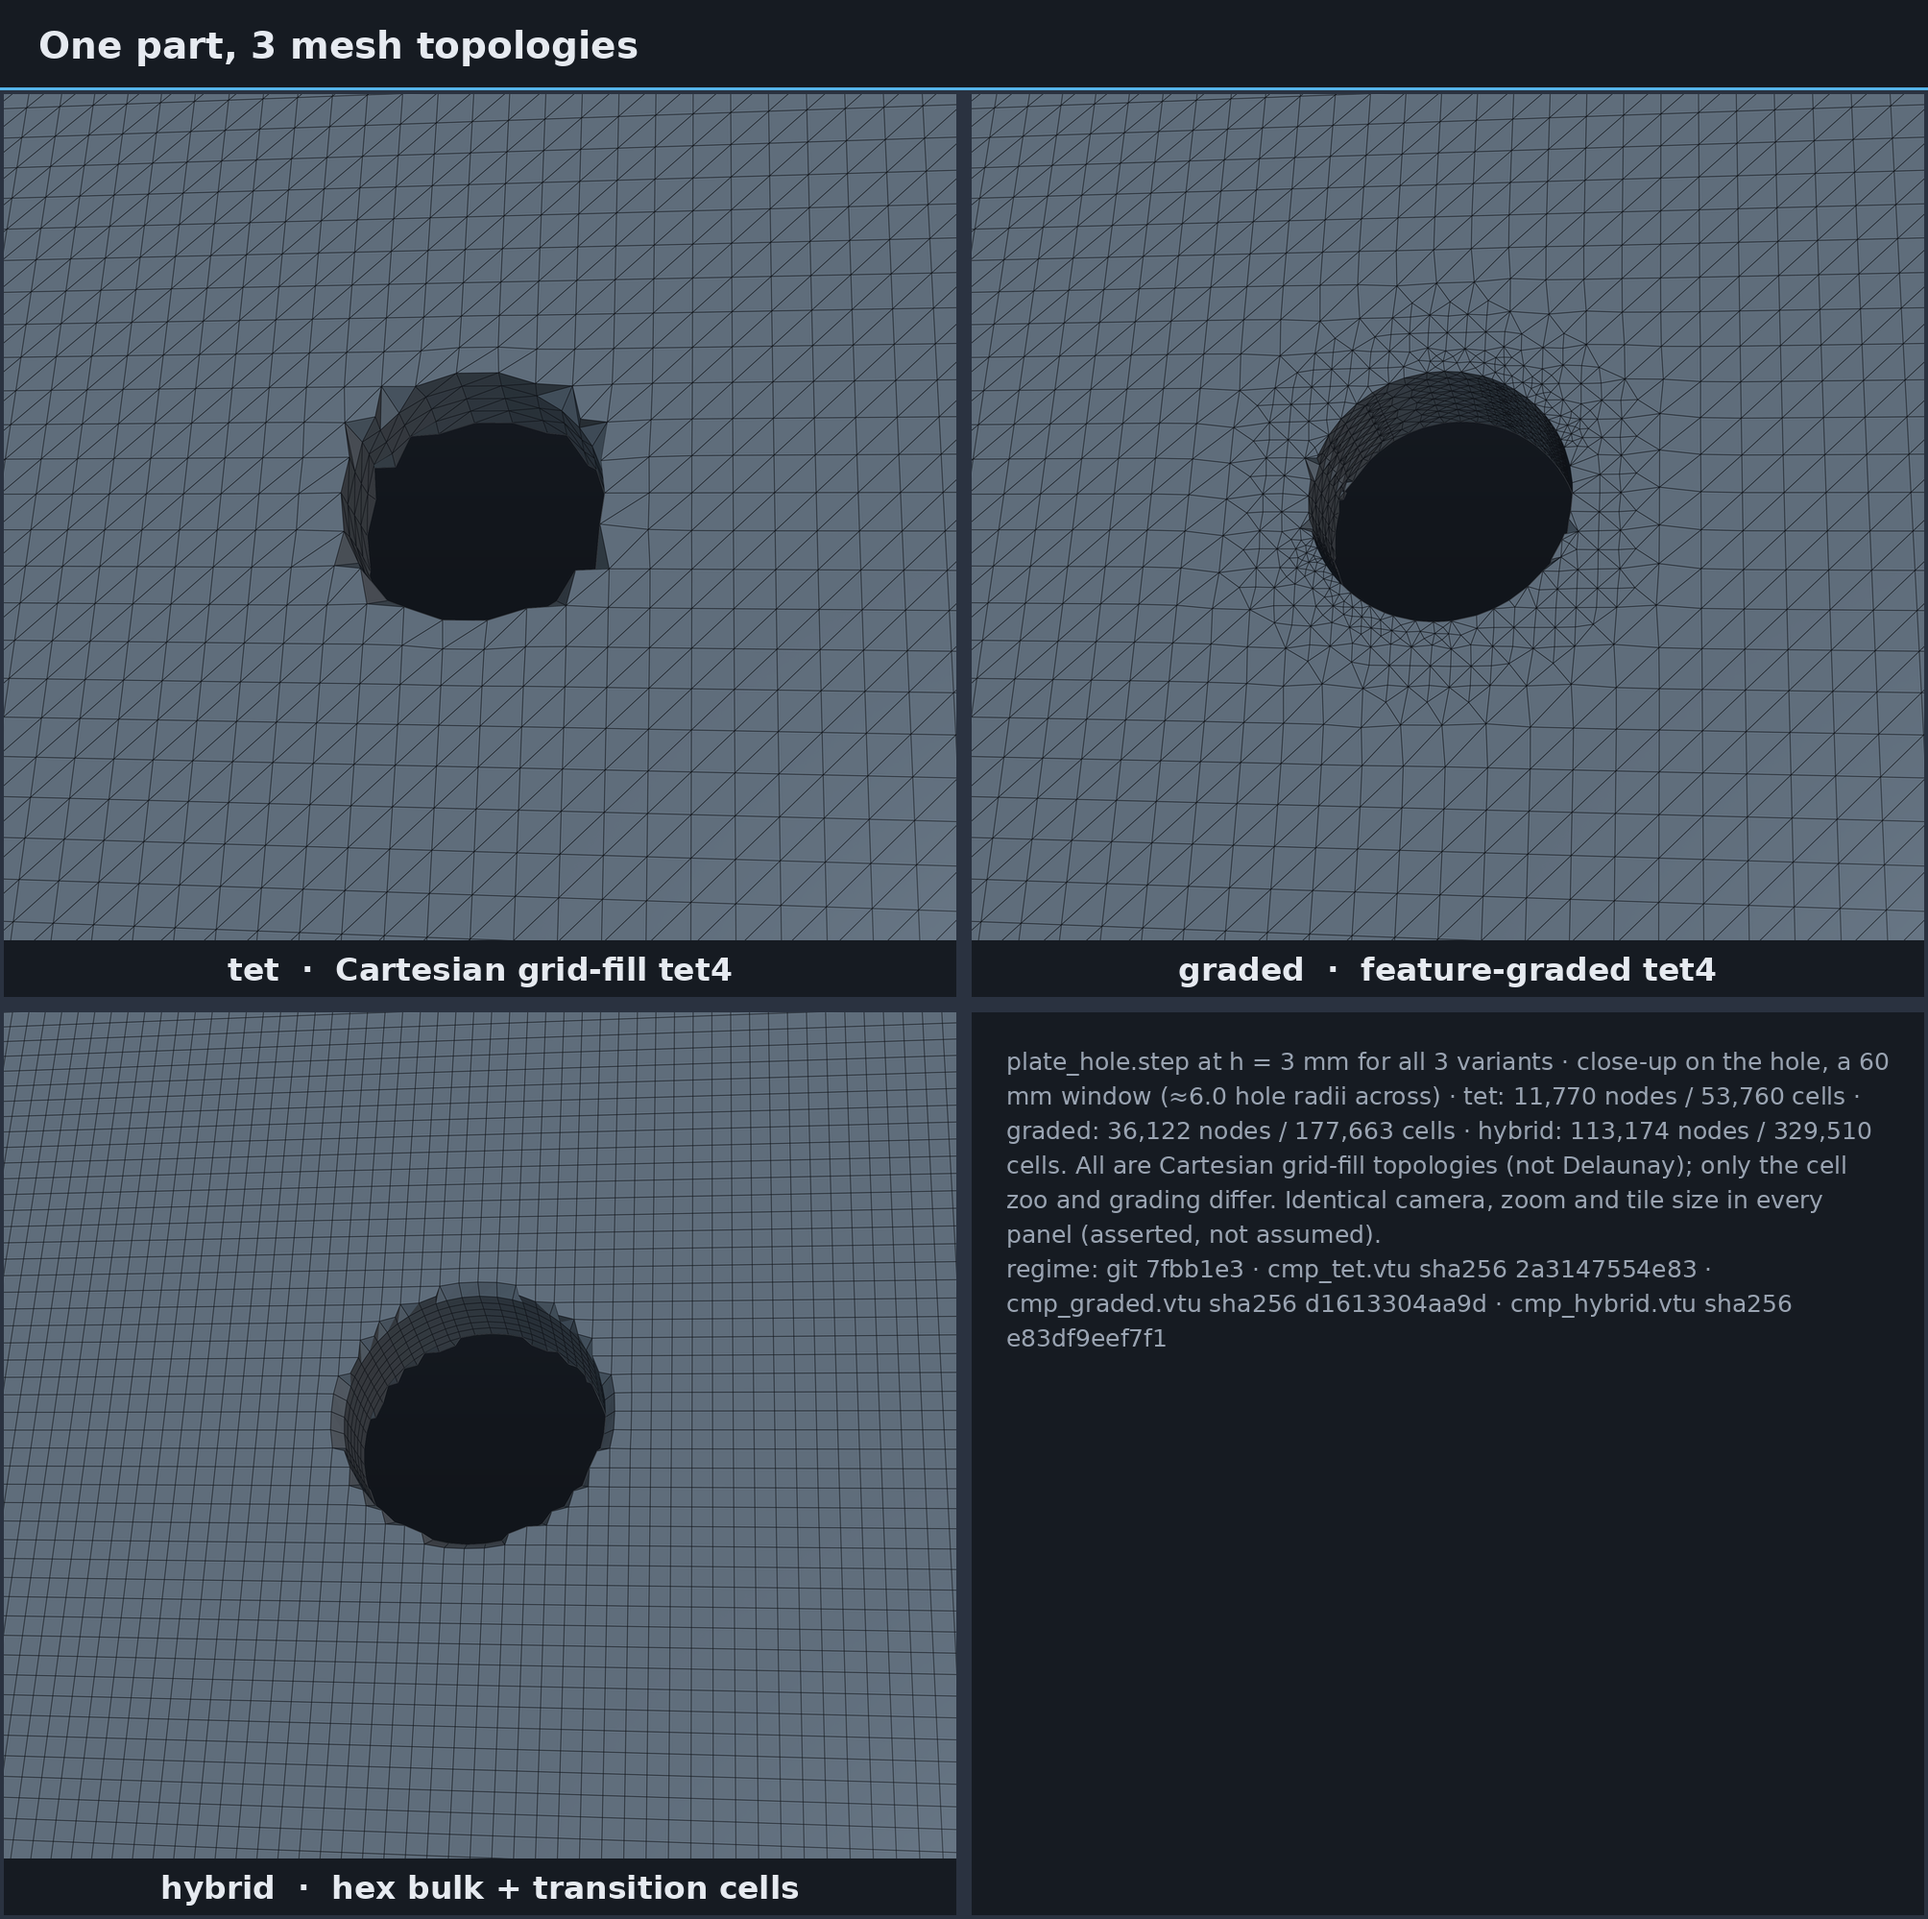
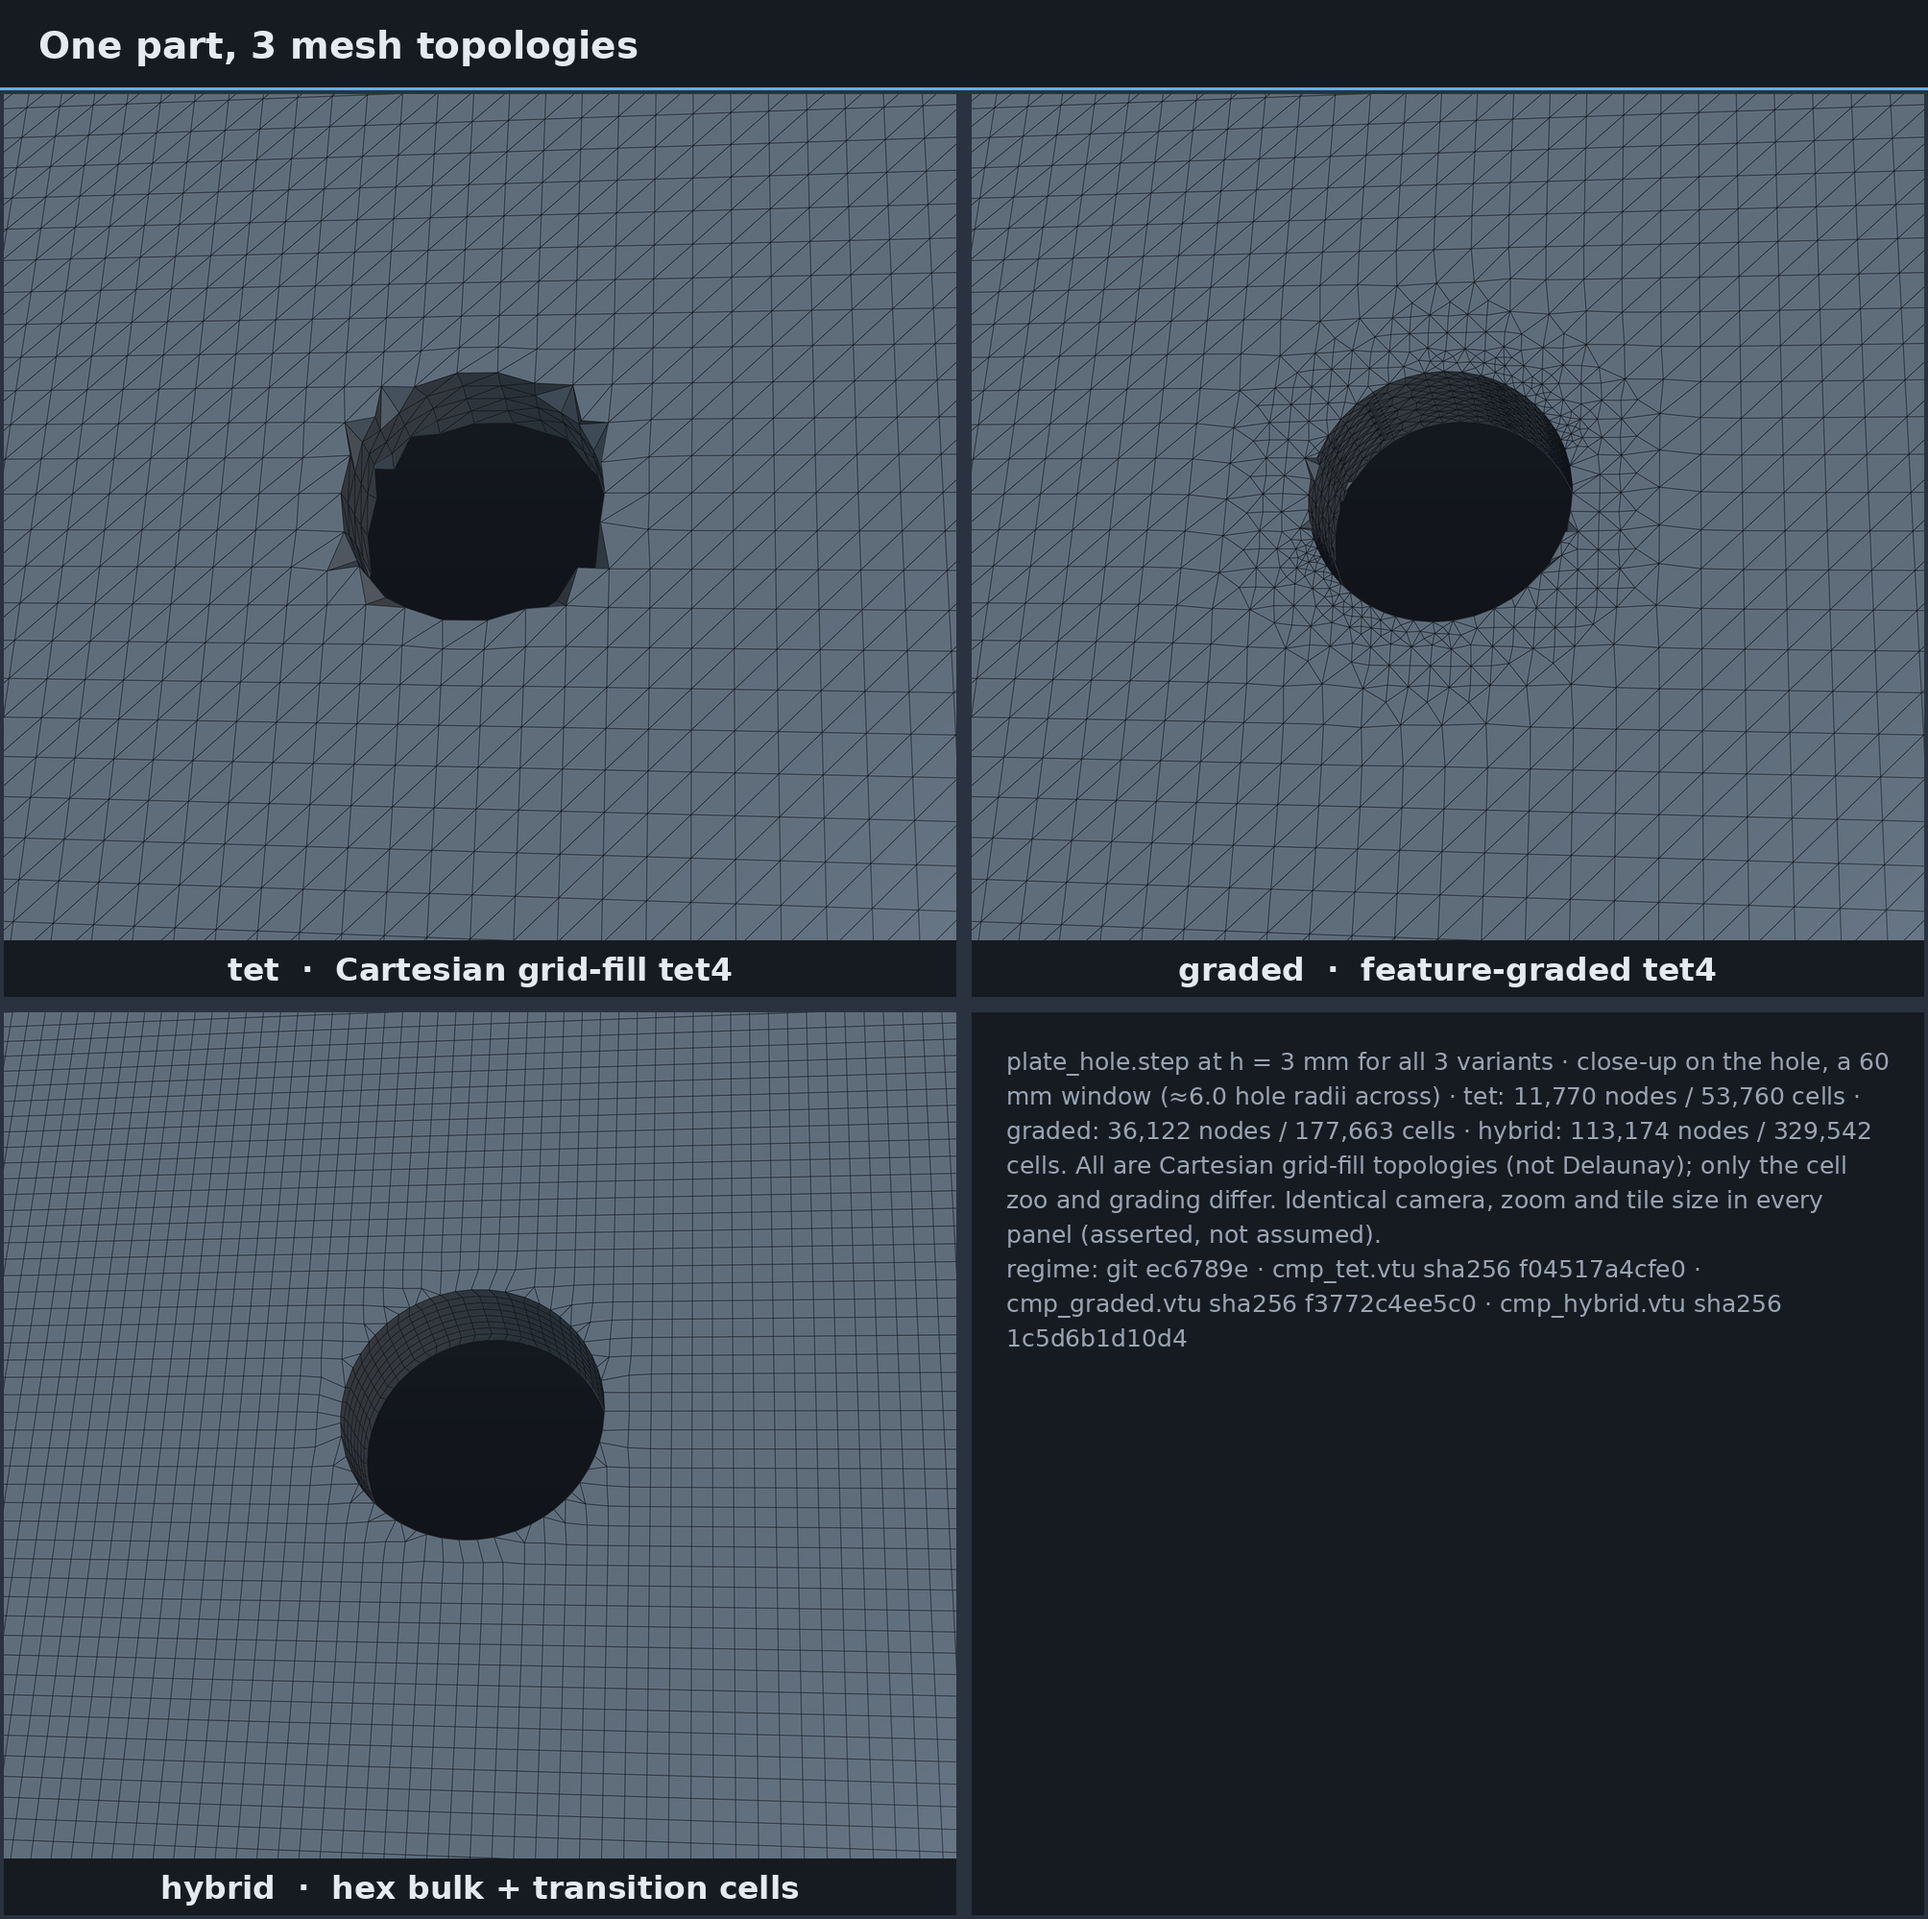
Refresh curved boundary showcase evidence

diff --git a/docs/SHOWCASE.md b/docs/SHOWCASE.md
@@ -77,8 +77,9 @@ python scripts/render_showcase.py --only cantilever
 ![cylinder](assets/showcase/gallery_cylinder.png)
 
 Curved-wall solid imported from STEP. Curvature-driven sizing refines the
-cylindrical face while the bulk stays coarse. h = 12 mm, 8,840 nodes / 42,517
-elements, 26,520 DOF.
+cylindrical face while the bulk stays coarse; the exported display skin uses
+projected quadratic mids while the solve stays linear. h = 12 mm, 8,908 nodes /
+42,768 elements, 26,724 solved DOF.
 
 ```sh
 python scripts/render_showcase.py --only cylinder
@@ -88,10 +89,10 @@ python scripts/render_showcase.py --only cylinder
 
 ![sphere](assets/showcase/gallery_sphere.png)
 
-Closed curved B-rep — the hardest case for a Cartesian grid fill. Shows the
-stair-cased boundary honestly, with the feature-graded skin layers absorbing the
-curvature ([ADR-0015](decisions/0015-grid-fill-limits.md)). h = 8 mm, 5,045
-nodes / 23,892 elements, 15,135 DOF.
+Closed curved B-rep — the hardest case for a Cartesian grid fill. The
+feature-graded linear solve mesh remains authoritative, while the rendered
+display copy promotes and projects its boundary mids onto the BRep. h = 8 mm,
+5,045 solved nodes / 23,892 elements, 15,135 solved DOF.
 
 ```sh
 python scripts/render_showcase.py --only sphere
@@ -104,7 +105,7 @@ python scripts/render_showcase.py --only sphere
 One watertight 3D Boolean solid: a round truncated cone fused into an
 overlapping spherical scoop. The committed STEP is reloaded through
 OpenCASCADE, meshed at h = 10 mm, and solved with a conserved downward
-resultant on the scoop: 3,545 nodes / 16,184 elements, 10,635 DOF.
+resultant on the scoop: 3,535 solved nodes / 16,143 elements, 10,605 solved DOF.
 
 ```sh
 python scripts/render_showcase.py --only icecream_cone
@@ -307,22 +308,28 @@ reverts wholesale otherwise, which is why the experimental packed-poly mesher,
 whose cells are already degenerate at ~1e-14, comes out at exactly its previous
 numbers instead of slightly worse.
 
-Three limits stay on the page because they are still true, and one of them is
-what a reader still sees. The **uniform** Cartesian tet fill is bounded by the
-cell-shape floor rather than by the projector: placing one straggler on its exact
-target drives incident cells to quality −0.05, so the snap stops at the floor and
-every such part ships `quality_min = 0.0200` exactly. Three refinement schemes
-were tried against it and none pays — the constraint is scale-invariant, since
-halving h halves the required travel and the available room together
-([ADR-0035 §6](decisions/0035-boundary-conformity.md) records the numbers so
-nobody repeats them). The graded path still carries needle facets at its 2:1
-transitions, which needs re-triangulation rather than node motion. And once every
-node is on the surface, the residual mesh→BRep distance is the sagitta h²κ/8 of a
-straight facet across a curve: the showcase scoop is R = 25 mm at h = 10 mm, so
-that sag is 0.5 mm, 2 % of the radius, and it is exactly the faceting visible in
-the gallery renders. It is the floor of any linear-element mesh, and removing it
-means curved boundary geometry, which this codebase has only on the p-elevated
-path.
+Two meshing limits stay on the page because they remain true; the display-only
+chordal limit is now closed. The **uniform** Cartesian tet fill is bounded by
+the cell-shape floor rather than by the projector: placing one straggler on its
+exact target drives incident cells to quality −0.05, so the snap stops at the
+floor and every such part ships `quality_min = 0.0200` exactly. The proposed
+per-level LEB sequence is already the graded algorithm — pre-snap, project each
+new free midpoint, then snap the complete shell — and its uniform-path
+experiment reached sphere p99 0.032 h only by creating 94 sub-floor cells
+([ADR-0035 §6](decisions/0035-boundary-conformity.md)).
+
+The graded path still carries needle facets at 2:1 transitions. Hybrid avoids
+them with quad/pyramid transitions and varyhedron builds a different restricted
+Voronoi skin; neither contains a tet-shell operation that can be ported. A real
+fix requires coupled 2↔3 or 3↔2 volume-tet flips, not a surface-only
+re-triangulation that disagrees with the emitted elements.
+
+For display/export, the h²κ/8 chordal floor is removed without changing solved
+DOF, BCs, loads, quality or advisor labels: a copy of the authoritative linear
+mesh is promoted to quadratic, its free boundary mids are projected through the
+owner-stable BRep oracle, and linear result fields are interpolated onto those
+display-only mids. On the sphere at h = 8 mm the rendered facet-normal
+deviation is mean 0.66°, p99 2.19°, max 3.28°.
 
 ## Spectral sizing
 

diff --git a/docs/progress.md b/docs/progress.md
@@ -235,6 +235,27 @@ the sphere and on the icecream cone* — and again the figures were right. Suite
   not sliding), the under-resolved 6 mm disc, and the h²κ/8 chordal floor that
   is what remains visible as faceting in any linear-element render.
 
+**Curved display/export boundary geometry + limit closure (2026-08-17):**
+
+- Linear solve meshes remain authoritative. CLI mesh exports and Studio previews
+  now promote a copy to tet10/hex20, project display-only boundary mids through
+  the exact owner-stable BRep oracle, and interpolate solved p1 displacement,
+  von Mises, displacement magnitude and nodal error onto those mids.
+- Sphere h = 8 mm display-normal deviation measures mean **0.66°**, p99
+  **2.19°**, max **3.28°**. The 16-case mesher diagnostic matrix is unchanged,
+  as intended: no solve DOF, BC/load selection, quality, fidelity label or
+  advisor input changed, so no advisor retraining was warranted.
+- The requested per-level LEB snap is already the graded implementation
+  sequence. Its uniform-path experiment is the recorded conformity-driven LEB
+  result: sphere p99 0.032 h with 94 sub-floor cells, so it cannot ship under
+  the no-worse-mesh invariant.
+- Hybrid and varyhedron do not contain a tet-shell transition operation to port.
+  They avoid graded needles with different volume topologies. Fixing graded
+  requires a new quality- and Jacobian-gated 2↔3/3↔2 tet flip kernel; changing
+  only extracted surface triangles would falsify the emitted volume mesh.
+- Suite **435/435 green** (three expected skips); showcase assets regenerated
+  from clean commit `ec6789e`.
+
 **Spectral sizing + coarsening + budget advisor + CG equilibration (2026-08-16,
 ADR-0034):** one wave, four mechanisms, suite **432/432 green** (OCC on).
 

diff --git a/docs/decisions/0035-boundary-conformity.md b/docs/decisions/0035-boundary-conformity.md
@@ -298,19 +298,15 @@ is therefore not a valid fix.
 has a 6 mm radius against a 7.8 mm cell. No node placement fixes a feature
 smaller than the element; the residual there is the lattice, not the projector.
 
-**The chordal floor.** With every node exactly on the surface, the remaining
-mesh→BRep distance is the sagitta of a straight facet across a curve, h²κ/8.
-That is the floor of a linear-element mesh, it is why the combined statistic
-(0.05–0.20 h on curved parts) does not reach zero even when the node statistic
-does, and it is what remains visible as faceting in a render: the showcase
-scoop is R = 25 mm at h = 10 mm, so the sag is 0.5 mm, 2% of the radius.
-Removing it means curved boundary geometry, which this codebase has as
-`project_quadratic_boundary_mids` on the p-elevated path — the linear mesh
-cannot be made smoother than its own chords. Quoting node conformity as "the
-mesh matches the CAD" is only honest with that sentence attached.
+**The chordal floor is closed for display/export.** Linear solve geometry still
+has the expected h²κ/8 sagitta, but every CAD-backed CLI mesh export and Studio
+preview now renders a quadratic copy: `promote_to_quadratic`, exact BRep
+projection of free boundary mids, and p1 interpolation of solved point fields.
+Physics boundary faces, BC/load selection, quality, advisor labels and solved
+DOF remain corner-only and unchanged. On the sphere at h = 8 mm, rendered
+facet-normal deviation is mean 0.66°, p99 2.19°, max 3.28°.
 
 ## 7. Consequences
-
 - Two regression tests in `tests/test_brep_fidelity.cpp` (`[feature_pin]`):
   boundary nodes on the exact BRep for eight part × mesher pairs with ceilings
   at 1e-12·h where the mesher is exact, and sharp BRep edges reproduced by mesh
